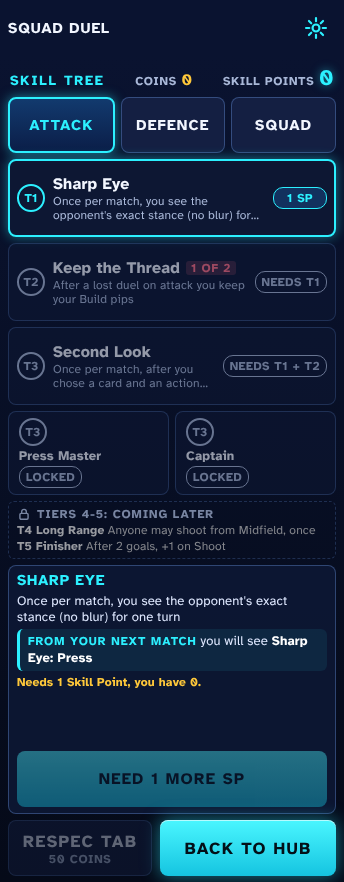
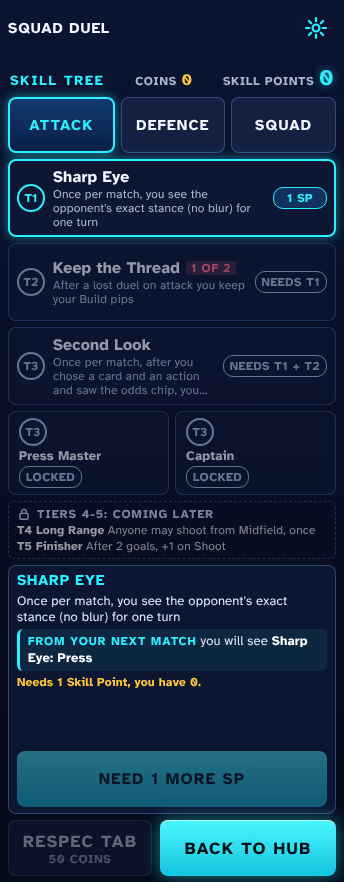
Squad Duel sq-season-1: tree text 3 lines, ordinal fix
Claude-Session: https://claude.ai/code/session_01Lcw2xuqEfgorW2L1aKxqMt

Changed region(s): [[0.1453, 0.3673, 0.5814, 0.4592], [0.1453, 0.1837, 0.7267, 0.2755]]

diff --git a/pages/squad-duel/css/meta-a.css b/pages/squad-duel/css/meta-a.css
@@ -137,7 +137,7 @@
   #result .rw-v { font-size: 20px; }
   #tree .node { min-height: 56px; flex-basis: 56px; padding-top: 2px; padding-bottom: 2px; }
   #tree .node { padding-top: 2px; padding-bottom: 2px; }
-  #tree .nd-text { display: -webkit-box; -webkit-line-clamp: 1; -webkit-box-orient: vertical; overflow: hidden; }
+  #tree .nd-text { display: -webkit-box; -webkit-line-clamp: 2; -webkit-box-orient: vertical; overflow: hidden; }
   #tree .lockedtree { flex-direction: row; flex-wrap: wrap; gap: 0 10px; padding: 2px 8px; }
   #tree .lk-head { flex: 1 0 100%; }
   #tree .lk-t { display: none; }
@@ -167,7 +167,7 @@
 }
 /* long node copy (tier 3) never pushes the row: two lines in the list, full text in the detail strip */
 #tree .node { overflow: hidden; }
-#tree .nd-text { display: -webkit-box; -webkit-line-clamp: 2; -webkit-box-orient: vertical; overflow: hidden; }
+#tree .nd-text { display: -webkit-box; -webkit-line-clamp: 3; -webkit-box-orient: vertical; overflow: hidden; }
 
 #tree .tree-t3 { display: flex; gap: 6px; flex: 0 0 auto; }
 #tree .tree-t3 .node { flex: 1 1 0; min-height: 56px; display: flex; flex-direction: column; align-items: flex-start; justify-content: center; gap: 2px; padding: 6px 10px; font-size: 13px; }

diff --git a/pages/squad-duel/js/season.js b/pages/squad-duel/js/season.js
@@ -173,7 +173,8 @@
     if (c.played) return c.won ? { coins: tw(T, 'cupWinPay'), why: 'Cup won' } : { coins: tw(T, 'cupLossPay'), why: 'Cup Final reached' };
     const p = place(S).pos;
     if (p === 3 || p === 4) return { coins: tw(T, 'place34Pay'), why: 'Finished ' + (p === 3 ? '3rd' : '4th') };
-    return { coins: 0, why: 'Finished ' + p + 'th' };
+    const o = (p % 100 >= 11 && p % 100 <= 13) ? 'th' : (['th', 'st', 'nd', 'rd'][p % 10] || 'th');
+    return { coins: 0, why: 'Finished ' + p + o };
   }
   function endSeason(S, T) {
     const se = ensure(S);

diff --git a/docs/squad-duel/sq-season-1/BUILD-CHANGES.md b/docs/squad-duel/sq-season-1/BUILD-CHANGES.md
@@ -19,7 +19,7 @@ Changed: js/data.js, js/progress.js (save v2), js/gacha.js, js/engine.js (home s
 - e2e.js (updated for the hub flow) 0 FAIL; e2e-season.js 0 FAIL (206 checks, 344x882 + 475x638, full season, cup, shootout, resume, same-seed replay).
 - bot.js (slice gates): d6, chip (20000 duels, worst 0.54 pt), cap +3, replay PASS. Content rows change as expected.
 - bot-season.js: 32 HIT, 27 MISS, 23 INFO. Full table docs/squad-duel/sq-season-1/BOT-SEASON.md.
-- Visual QA 344x882: 7 blockers found, all fixed (docs/squad-duel/sq-season-1/qa/).
+- Visual QA 344x882: 7 blockers found, 6 fixed; tree tier-3 "Second Look" text still cut after 3 lines in the list (full text in the detail strip when tapped). Also fixed "Finished 1th".
 
 ## Balance misses (reported as misses, not tuned: M's call)
 - Hard ladder skilled win % MD1-7: 54.9 / 57.6 / 54.4 / 59.6 / 58.6 / 61.9 / 52.5 v 60 / 52 / 52 / 50 / 48 / 46 / 42 (late clubs too easy).

diff --git a/docs/squad-duel/sq-season-1/E2E.md b/docs/squad-duel/sq-season-1/E2E.md
@@ -1,6 +1,6 @@
 # Squad Duel sq-season-1 E2E
 
-Generated by tests/squad-duel/e2e-season.js, 2026-11-23T19:01:46.619Z
+Generated by tests/squad-duel/e2e-season.js, 2026-11-23T19:05:33.465Z
 
 Total 206, pass 206, fail 0
 
